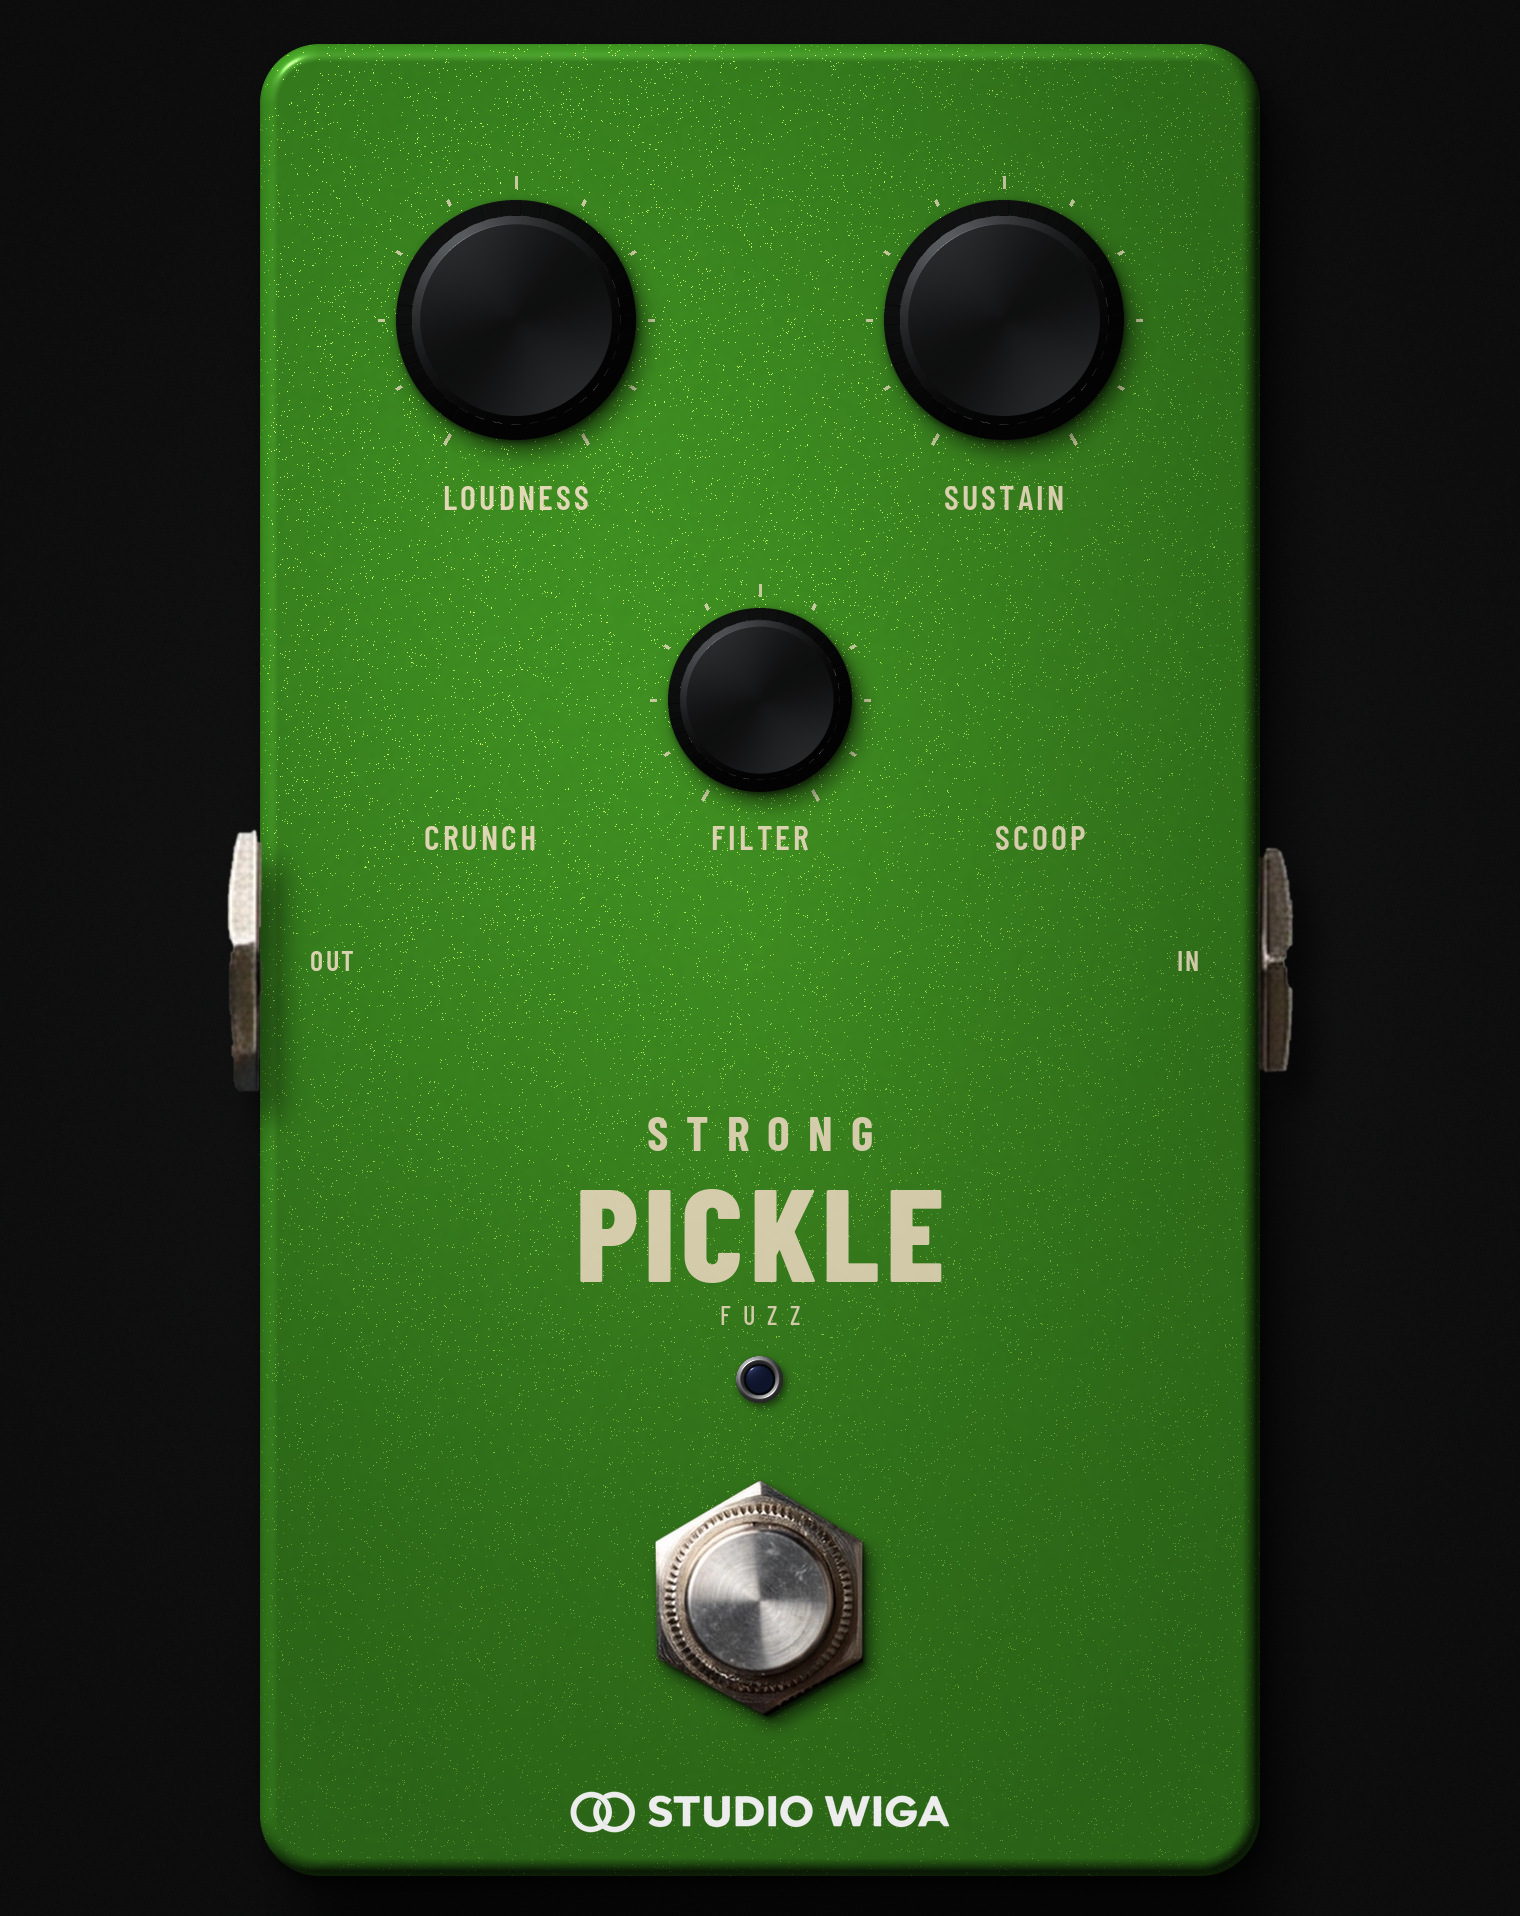
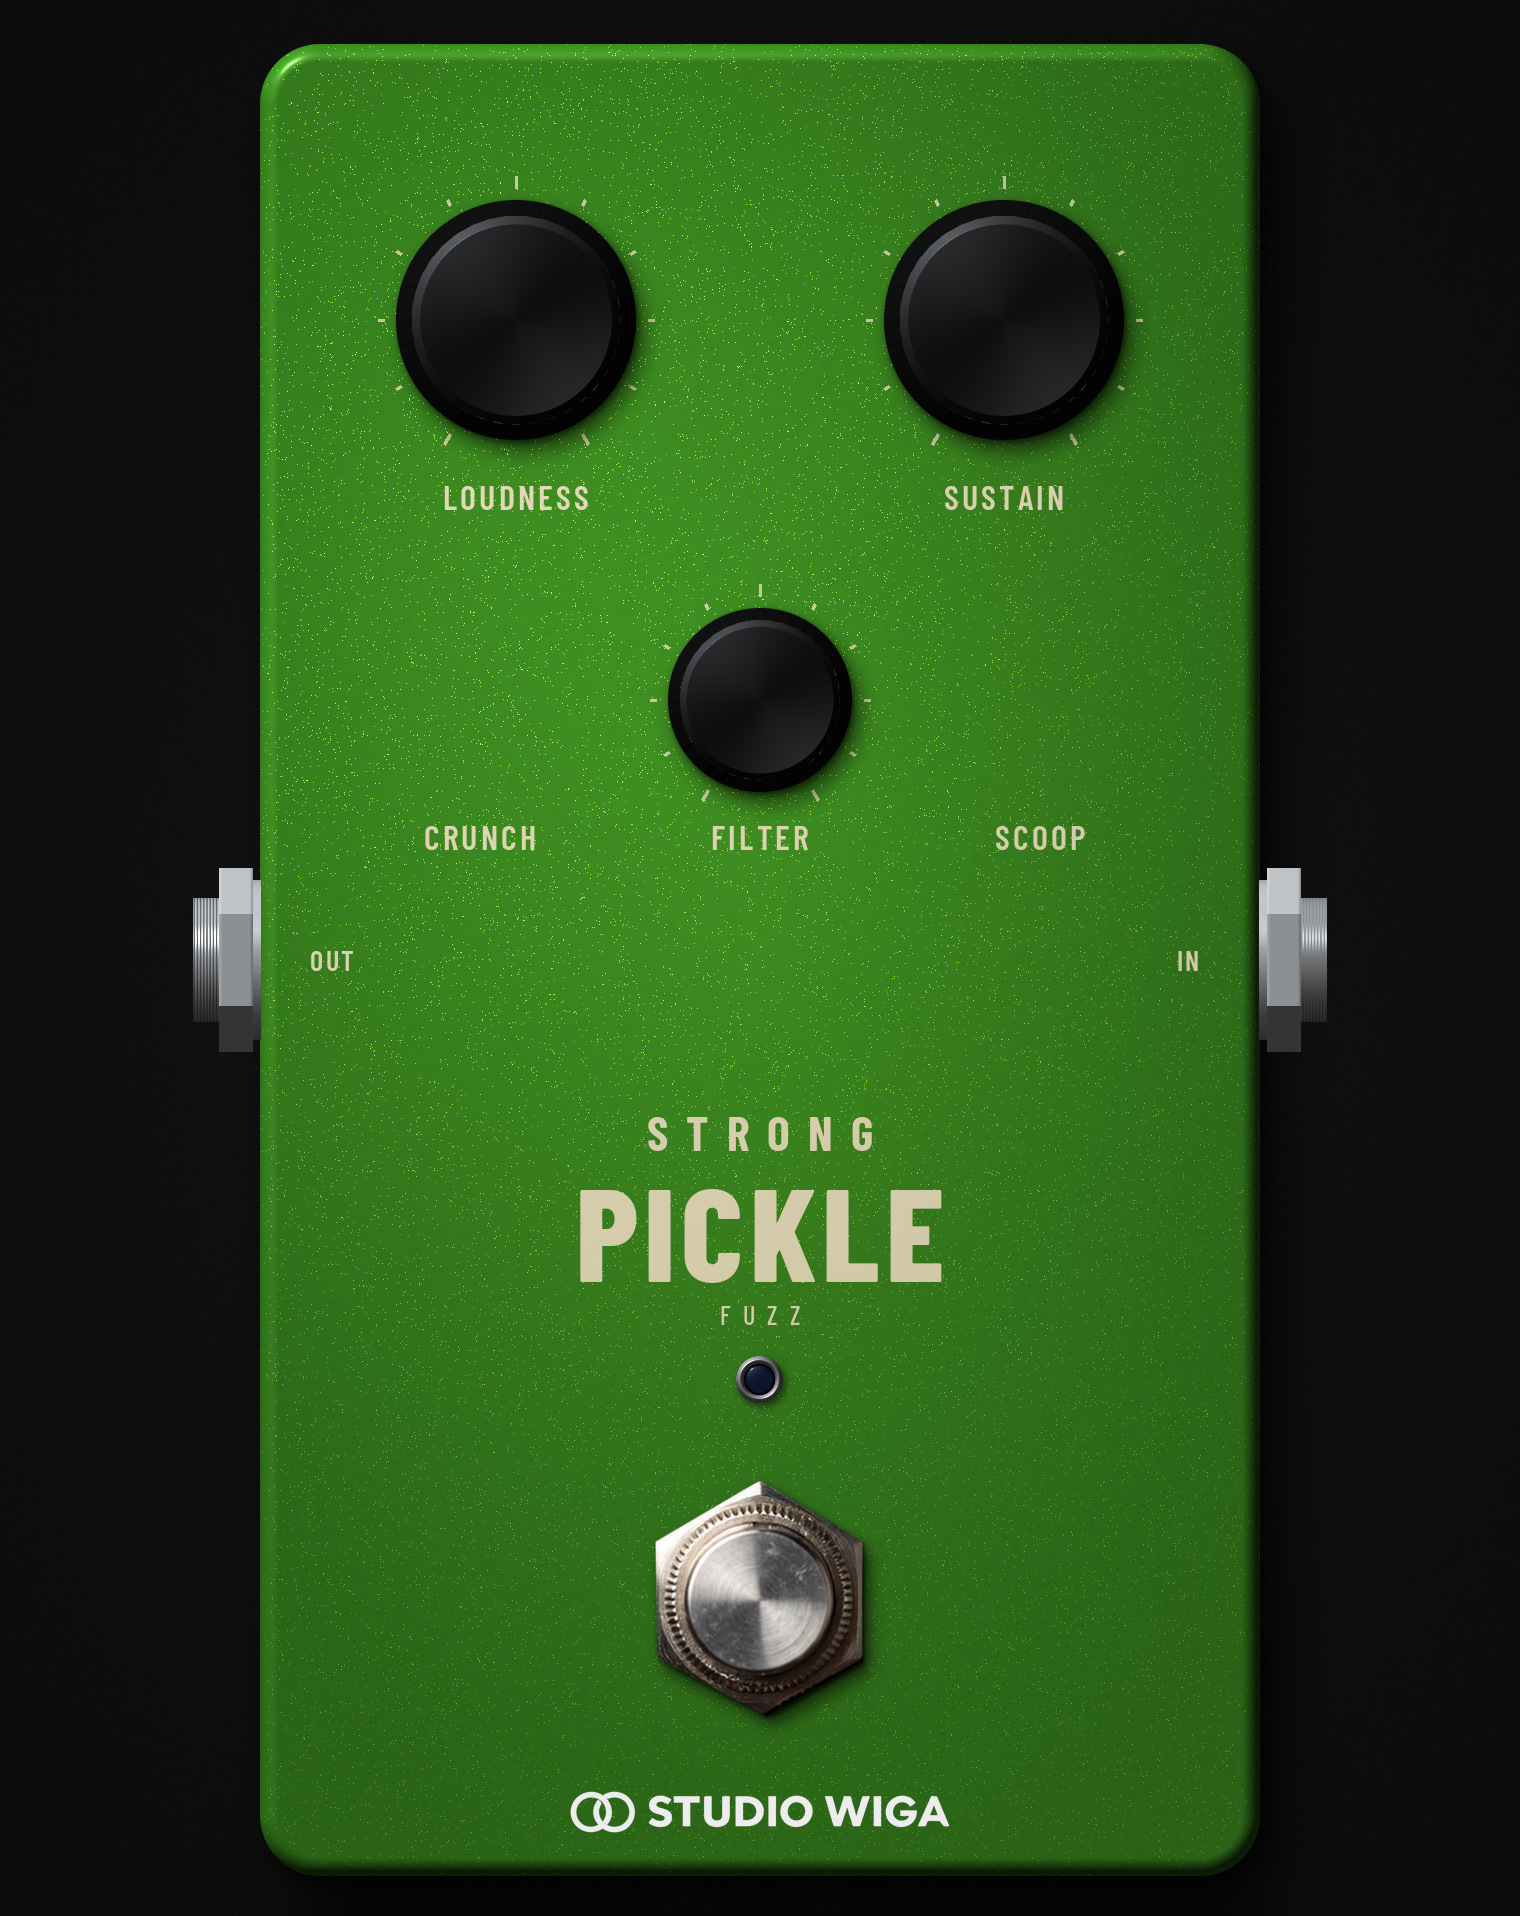
Jacks des tranches refaits : taille et forme realistes, sans ombre portee
Claude-Session: https://claude.ai/code/session_01M5BvnKD25x5sTgnxyi1aHz

Changed region(s): [[0.8039, 0.4311, 0.8967, 0.5543], [0.1237, 0.4311, 0.1855, 0.5851]]

diff --git a/tools/make_background.py b/tools/make_background.py
@@ -144,19 +144,69 @@ def paste_rgba(dst, im, x, y):
     al = a[..., 3:4] / 255
     dst[ya:ya + hh, xa:xa + ww] = sub * (1 - al) + a[..., :3] * al
 
-JK = 0.62
-jo = Image.open(os.path.join(AS, 'kit', 'jack_out_gauche.png')).convert('RGBA')
-ji = Image.open(os.path.join(AS, 'kit', 'jack_in_droite.png')).convert('RGBA')
-jo = jo.resize((round(jo.width * JK), round(jo.height * JK)), Image.LANCZOS)
-ji = ji.resize((round(ji.width * JK), round(ji.height * JK)), Image.LANCZOS)
-# ombre des jacks sur le plan de travail
-for im, xr, side in ((jo, U(x0) - jo.width + 3, 'L'), (ji, U(x1) - 3, 'R')):
-    a = np.zeros((H2, W2), np.float32)
-    al = np.asarray(im)[..., 3].astype(np.float32) / 255
-    yt = U(JACK_Y) - im.height / 2
-    a[int(yt) + 30:int(yt) + 30 + im.height, int(xr) + 20:int(xr) + 20 + im.width] = al
-    img *= (1 - 0.55 * blur(a, 7)[..., None])
-    paste_rgba(img, im, xr, yt)
+# v1.0 : embases jack vues de dessus, axe horizontal, sortant des tranches (rendu 3D, meme lumiere que la pedale).
+# Elles sont sur le cote du boitier : aucune ombre portee sur le plan de travail.
+# De la tranche vers l'exterieur : rondelle, ecrou hexagonal (un plat vers le haut), douille filetee.
+JACK_PARTS = [  # (longueur, demi-hauteur, type)
+    (4.0, 40.0, 'washer'),
+    (17.0, 46.0, 'hex'),
+    (13.0, 31.0, 'thread'),
+]
+def render_jack(side):
+    SSJ = 3; k = PX * SSJ
+    Lx = sum(p[0] for p in JACK_PARTS); Hh = max(p[1] for p in JACK_PARTS) + 2
+    n_w, n_h = int(math.ceil(Lx * k)), int(math.ceil(2 * Hh * k))
+    yk, xk = np.mgrid[0:n_h, 0:n_w].astype(np.float32)
+    t = (xk + 0.5) / k                         # distance depuis la tranche (unites)
+    yv = (yk + 0.5) / k - Hh                   # vertical (unites), 0 = axe du jack
+    nx = np.zeros_like(t); ny = np.zeros_like(t); nz = np.zeros_like(t); mask = np.zeros_like(t)
+    shade_k = np.ones_like(t)
+    x_out = 1.0 if side == 'R' else -1.0       # direction de sortie dans l'image
+    t0 = 0.0
+    for ln, hr, kind in JACK_PARTS:
+        sel = (t >= t0) & (t < t0 + ln)
+        u = (t - t0) / ln                      # 0 = cote tranche, 1 = cote exterieur
+        if kind == 'hex':
+            a_ = hr                            # demi-hauteur = rayon aux sommets ; plat superieur de demi-largeur a/2
+            ins = sel & (np.abs(yv) < a_)
+            top = ins & (np.abs(yv) <= a_ / 2)
+            slope = ins & (np.abs(yv) > a_ / 2)
+            nz = np.where(top, 1.0, np.where(slope, 0.5, nz))
+            ny = np.where(slope, np.sign(yv) * 0.866, np.where(top, 0.0, ny))
+            # chanfreins aux deux bouts de l'ecrou
+            ch = np.clip(1 - np.minimum(u, 1 - u) * ln / 1.6, 0, 1)
+            nx = np.where(ins, x_out * np.sign(u - 0.5) * 0.55 * ch, nx)
+            mask = np.where(ins, 1.0, mask)
+        else:
+            r_ = hr
+            ins = sel & (np.abs(yv) < r_)
+            s = np.clip(yv / r_, -0.999, 0.999)
+            ny = np.where(ins, s, ny); nz = np.where(ins, np.sqrt(1 - s * s), nz)
+            if kind == 'thread':
+                th = np.sin((t - t0) * 2 * math.pi / 1.6)
+                nx = np.where(ins, x_out * 0.45 * th, nx)
+                shade_k = np.where(ins, 0.82 + 0.18 * th, shade_k)
+            mask = np.where(ins, 1.0, mask)
+        t0 += ln
+    N_ = np.dstack([nx, ny, nz]); N_ /= np.maximum(np.linalg.norm(N_, axis=2, keepdims=True), 1e-6)
+    ndl_ = np.clip((N_ * L).sum(-1), 0, 1); ndh_ = np.clip((N_ * HV).sum(-1), 0, 1)
+    # nickel : reflet de l'environnement (sombre en bas, clair vers la lampe) + speculaire
+    env = 0.5 + 0.5 * np.clip(-N_[..., 1] * 0.8 + N_[..., 2] * 0.4, -1, 1)
+    c = (34 + 120 * ndl_ ** 1.5 + 70 * env + 230 * ndh_ ** 70) * shade_k
+    rgb = np.dstack([c * 0.98, c * 1.0, c * 1.02])
+    if side == 'L':
+        rgb = rgb[:, ::-1]; mask = mask[:, ::-1]          # geometrie vers la gauche (normales deja orientees, pas de miroir de la lumiere)
+    rgb = cv2.resize(rgb, (n_w // SSJ, n_h // SSJ), interpolation=cv2.INTER_AREA)
+    mask = cv2.resize(mask.astype(np.float32), (n_w // SSJ, n_h // SSJ), interpolation=cv2.INTER_AREA)
+    return rgb, mask, Lx, Hh
+
+for side in ('L', 'R'):
+    jrgb, jm, Lx, Hh = render_jack(side)
+    hh_, ww_ = jm.shape
+    ya = int(round(U(JACK_Y - Hh)))
+    xa = int(round(U(x0 - Lx))) + 1 if side == 'L' else int(round(U(x1))) - 1
+    sub = img[ya:ya + hh_, xa:xa + ww_]
+    img[ya:ya + hh_, xa:xa + ww_] = sub * (1 - jm[..., None]) + jrgb * jm[..., None]
 
 # ------------------------------------------------------------------ 4. inscriptions (encre creme serigraphiee)
 ink = np.array([236, 226, 190], np.float32)

diff --git a/README.md b/README.md
@@ -43,7 +43,7 @@ et le test Bonedo disent qu'il creuse : c'est ce qui est reproduit.
 - Potards : seul le trait blanc tourne, les reflets du chapeau restent fixes (lumière en haut à gauche). Double-clic = midi.
 - Inverseurs : ceux du kit Studio Wiga (FreakOut), image intermédiaire ~55 ms pendant la bascule ; clic = bascule, molette possible.
 - Footswitch d'Echoflex (référence Studio Wiga), bouton assombri tant qu'on appuie.
-- Jacks du kit sur les tranches : OUT à gauche, IN à droite. Pas d'inscription 9 V.
+- Jacks sur les tranches, au milieu de la hauteur (OUT à gauche, IN à droite) : embases vues de dessus (rondelle, écrou hexagonal, douille filetée), sans ombre portée puisqu'elles sont sur le côté du boîtier. Pas d'inscription 9 V.
 - **Anti-gel v2** : moteur de rendu logiciel forcé sous Windows (réappliqué à chaque nouvelle fenêtre hôte), fenêtre opaque, timer 30 Hz qui ne redessine que ce qui a changé (aucun redessin au repos), caches d'images reconstruits par le timer seulement, chien de garde (1,5 s), jamais de redimensionnement forcé ; côté audio, aucun appel à l'hôte depuis le thread audio (file vidée sur le thread de messages), paramètres lus par pointeurs mis en cache. JUCE 8.0.15.
 
 ## MIDI
